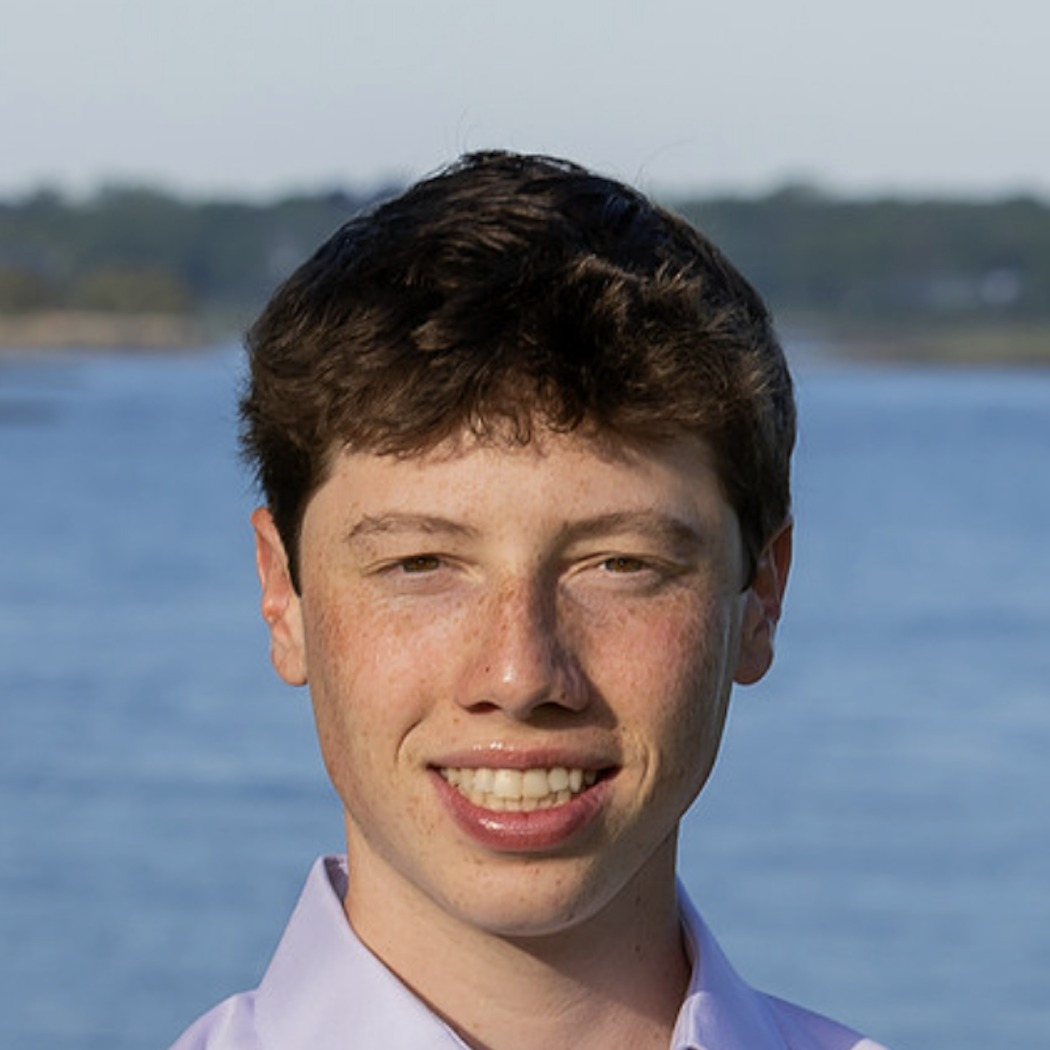
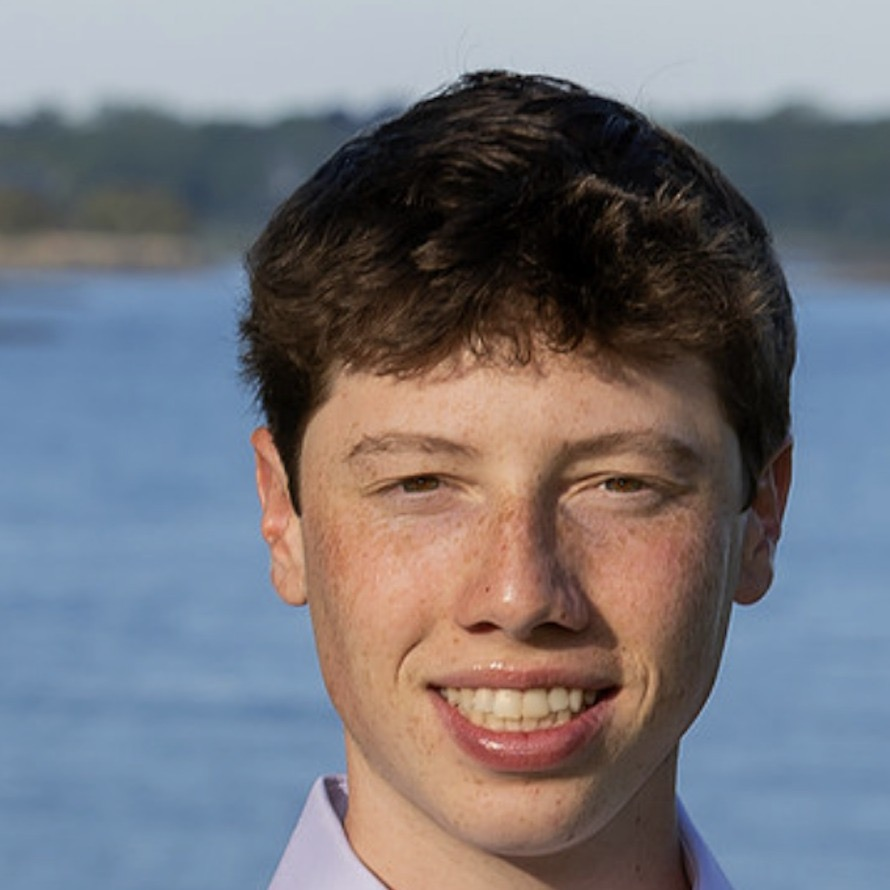
Reduce headroom on William Cohen's officer headshot

diff --git a/gallery.html b/gallery.html
@@ -9,7 +9,7 @@
 <link rel="preconnect" href="https://fonts.googleapis.com" />
 <link rel="preconnect" href="https://fonts.gstatic.com" crossorigin />
 <link href="https://fonts.googleapis.com/css2?family=EB+Garamond:wght@500;600;700&family=Inter:wght@400;500;600;700&display=swap" rel="stylesheet" />
-<link rel="stylesheet" href="css/styles.css?v=63" />
+<link rel="stylesheet" href="css/styles.css?v=64" />
 </head>
 <body>
 
@@ -62,7 +62,7 @@
   <img src="" alt="" id="lightboxImg" />
 </div>
 
-<script src="js/data.js?v=76"></script>
-<script src="js/main.js?v=64"></script>
+<script src="js/data.js?v=77"></script>
+<script src="js/main.js?v=65"></script>
 </body>
 </html>

diff --git a/index.html b/index.html
@@ -9,7 +9,7 @@
 <link rel="preconnect" href="https://fonts.googleapis.com" />
 <link rel="preconnect" href="https://fonts.gstatic.com" crossorigin />
 <link href="https://fonts.googleapis.com/css2?family=EB+Garamond:wght@500;600;700&family=Inter:wght@400;500;600;700&display=swap" rel="stylesheet" />
-<link rel="stylesheet" href="css/styles.css?v=63" />
+<link rel="stylesheet" href="css/styles.css?v=64" />
 </head>
 <body>
 
@@ -129,7 +129,7 @@
   </div>
 </footer>
 
-<script src="js/data.js?v=76"></script>
-<script src="js/main.js?v=64"></script>
+<script src="js/data.js?v=77"></script>
+<script src="js/main.js?v=65"></script>
 </body>
 </html>

diff --git a/contact.html b/contact.html
@@ -9,7 +9,7 @@
 <link rel="preconnect" href="https://fonts.googleapis.com" />
 <link rel="preconnect" href="https://fonts.gstatic.com" crossorigin />
 <link href="https://fonts.googleapis.com/css2?family=EB+Garamond:wght@500;600;700&family=Inter:wght@400;500;600;700&display=swap" rel="stylesheet" />
-<link rel="stylesheet" href="css/styles.css?v=63" />
+<link rel="stylesheet" href="css/styles.css?v=64" />
 </head>
 <body>
 
@@ -73,7 +73,7 @@
   </div>
 </footer>
 
-<script src="js/data.js?v=76"></script>
-<script src="js/main.js?v=64"></script>
+<script src="js/data.js?v=77"></script>
+<script src="js/main.js?v=65"></script>
 </body>
 </html>

diff --git a/events.html b/events.html
@@ -9,7 +9,7 @@
 <link rel="preconnect" href="https://fonts.googleapis.com" />
 <link rel="preconnect" href="https://fonts.gstatic.com" crossorigin />
 <link href="https://fonts.googleapis.com/css2?family=EB+Garamond:wght@500;600;700&family=Inter:wght@400;500;600;700&display=swap" rel="stylesheet" />
-<link rel="stylesheet" href="css/styles.css?v=63" />
+<link rel="stylesheet" href="css/styles.css?v=64" />
 </head>
 <body>
 
@@ -67,7 +67,7 @@
   </div>
 </footer>
 
-<script src="js/data.js?v=76"></script>
-<script src="js/main.js?v=64"></script>
+<script src="js/data.js?v=77"></script>
+<script src="js/main.js?v=65"></script>
 </body>
 </html>

diff --git a/officers.html b/officers.html
@@ -9,7 +9,7 @@
 <link rel="preconnect" href="https://fonts.googleapis.com" />
 <link rel="preconnect" href="https://fonts.gstatic.com" crossorigin />
 <link href="https://fonts.googleapis.com/css2?family=EB+Garamond:wght@500;600;700&family=Inter:wght@400;500;600;700&display=swap" rel="stylesheet" />
-<link rel="stylesheet" href="css/styles.css?v=63" />
+<link rel="stylesheet" href="css/styles.css?v=64" />
 </head>
 <body>
 
@@ -57,7 +57,7 @@
   </div>
 </footer>
 
-<script src="js/data.js?v=76"></script>
-<script src="js/main.js?v=64"></script>
+<script src="js/data.js?v=77"></script>
+<script src="js/main.js?v=65"></script>
 </body>
 </html>

diff --git a/resources.html b/resources.html
@@ -9,7 +9,7 @@
 <link rel="preconnect" href="https://fonts.googleapis.com" />
 <link rel="preconnect" href="https://fonts.gstatic.com" crossorigin />
 <link href="https://fonts.googleapis.com/css2?family=EB+Garamond:wght@500;600;700&family=Inter:wght@400;500;600;700&display=swap" rel="stylesheet" />
-<link rel="stylesheet" href="css/styles.css?v=63" />
+<link rel="stylesheet" href="css/styles.css?v=64" />
 </head>
 <body>
 
@@ -94,7 +94,7 @@
   </div>
 </footer>
 
-<script src="js/data.js?v=76"></script>
-<script src="js/main.js?v=64"></script>
+<script src="js/data.js?v=77"></script>
+<script src="js/main.js?v=65"></script>
 </body>
 </html>
